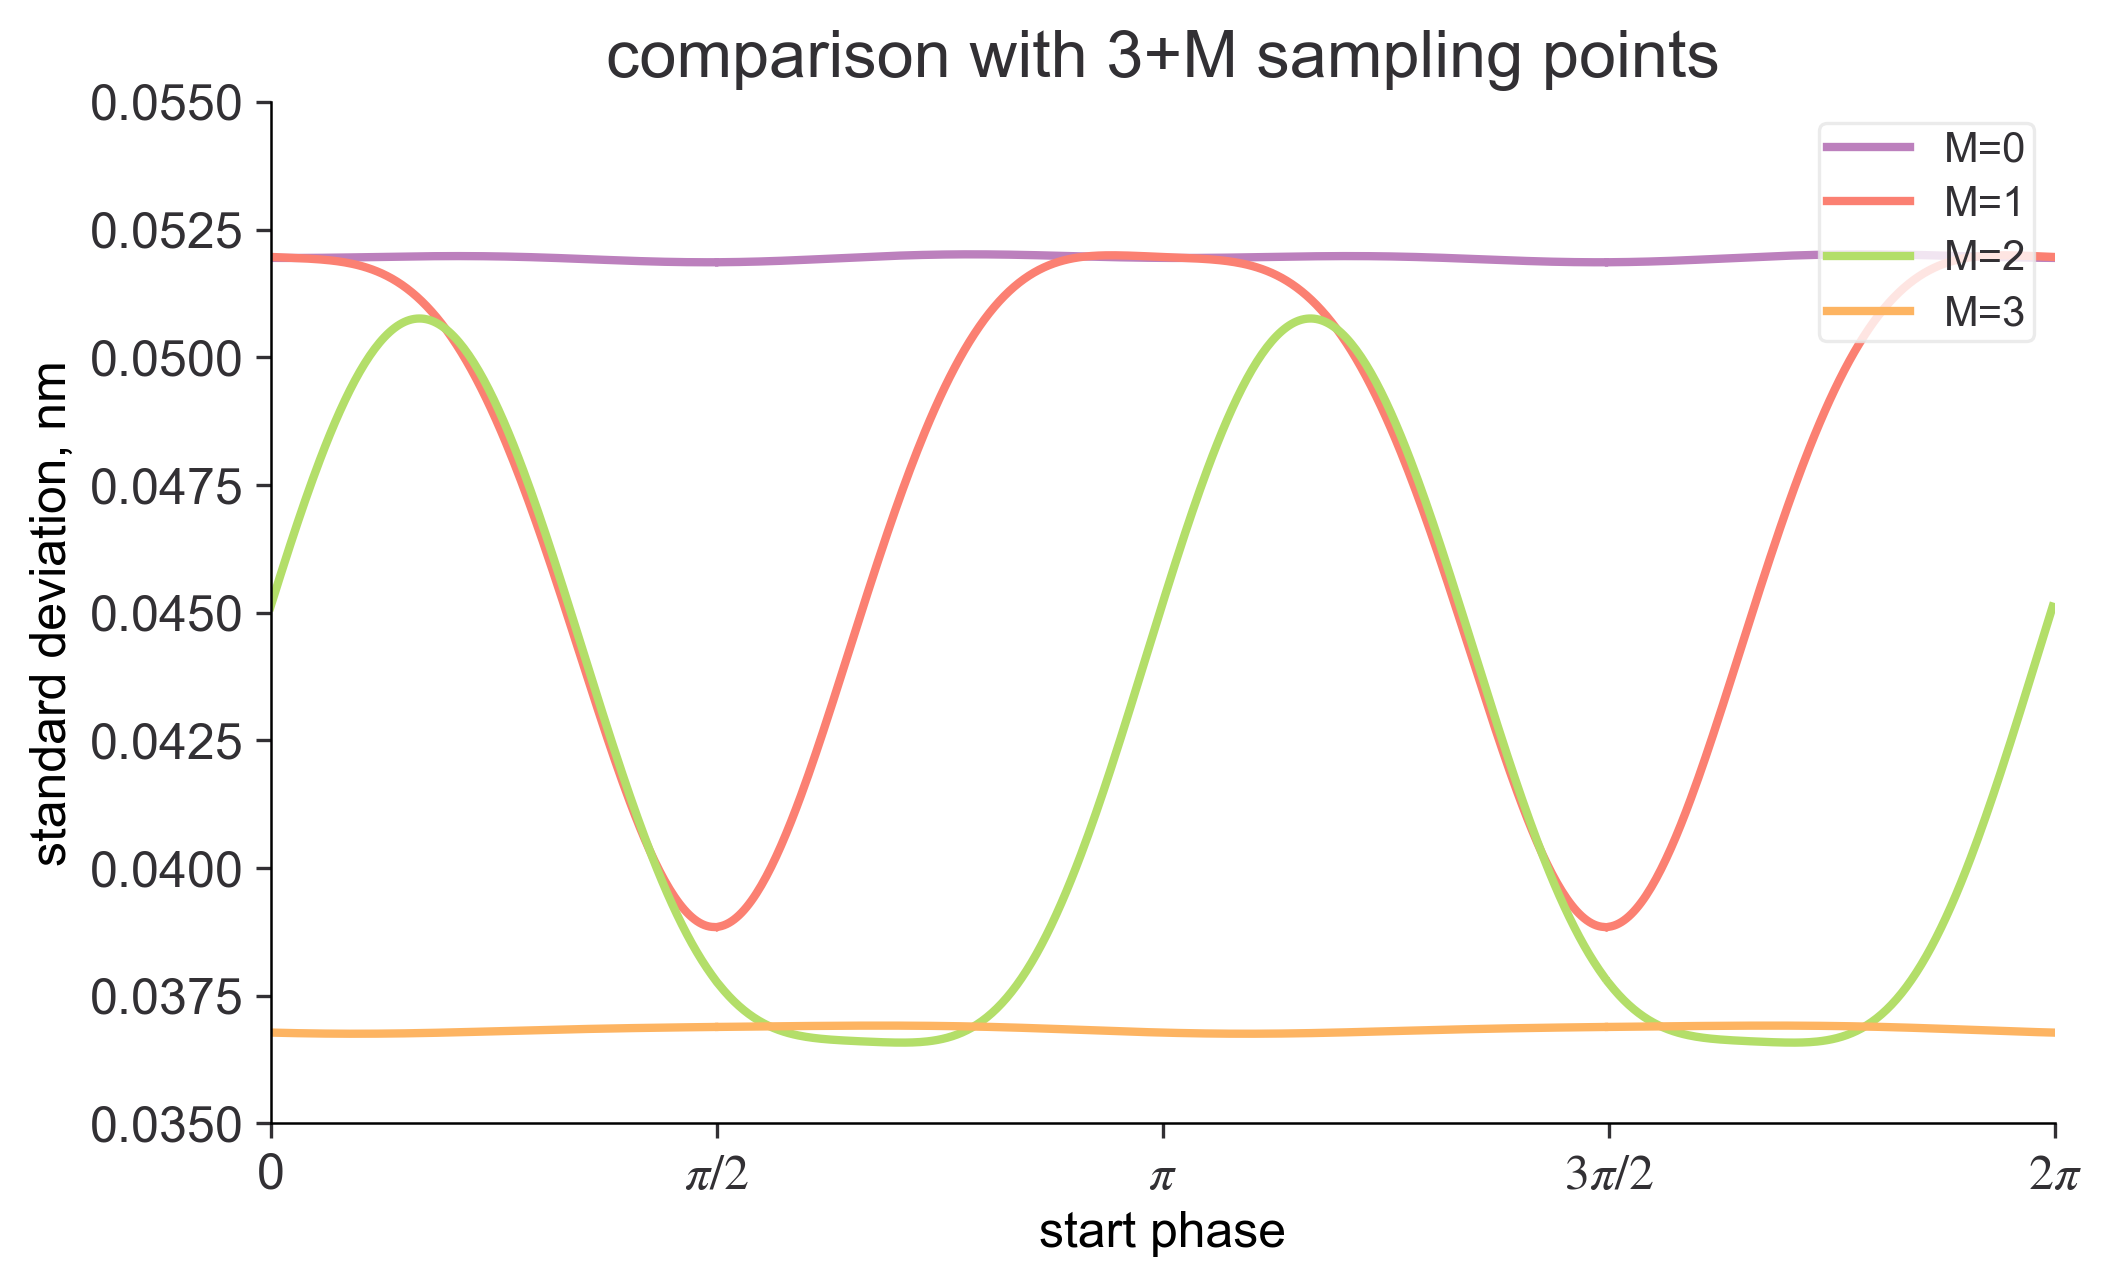
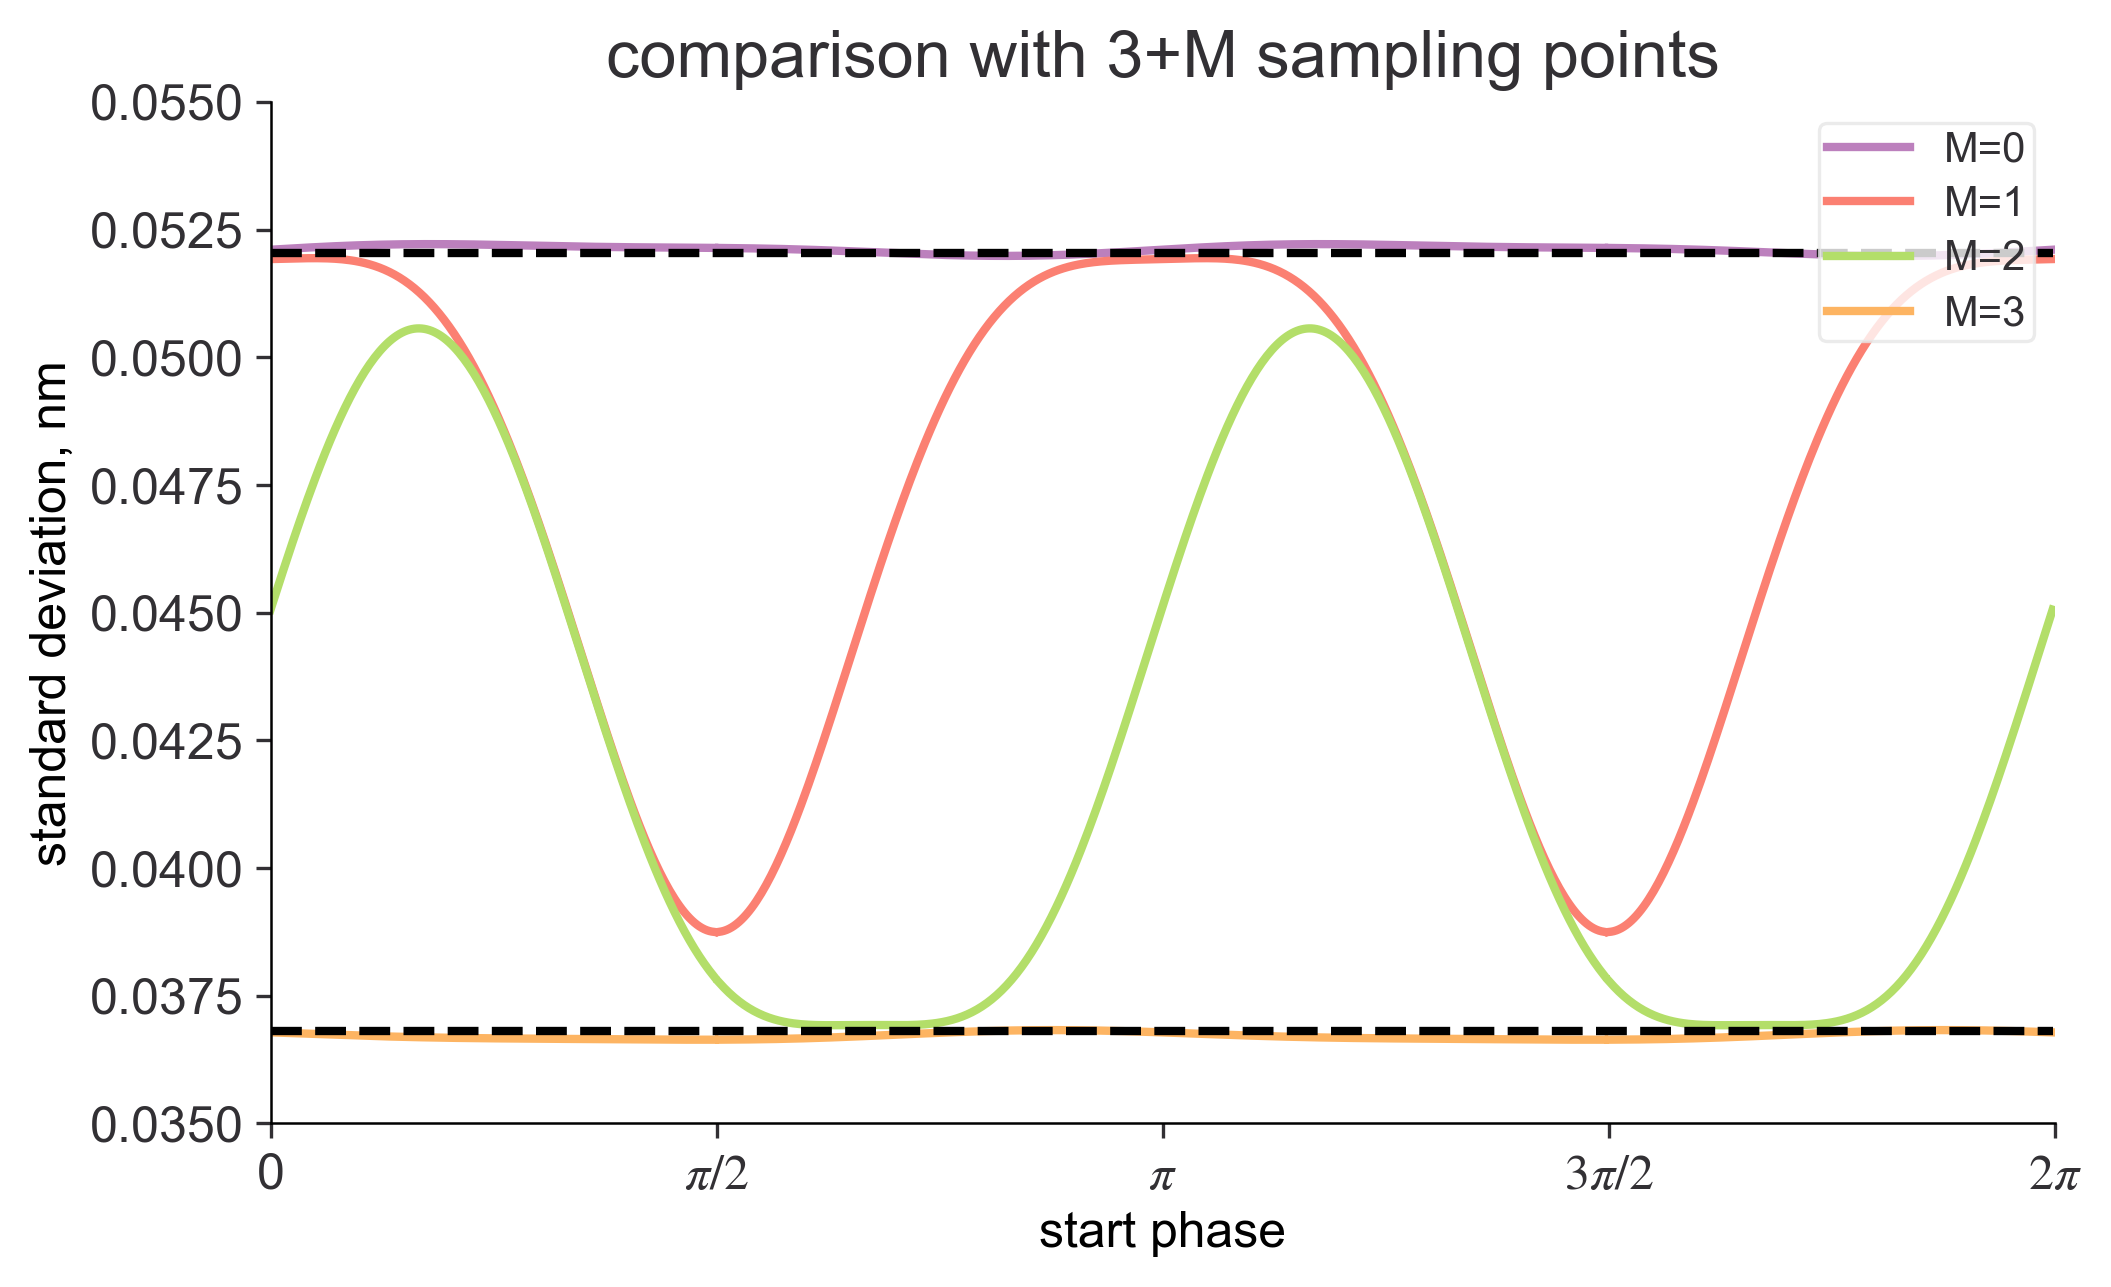
function of PSI

diff --git a/N+M-Step-Diagram.py b/N+M-Step-Diagram.py
@@ -14,9 +14,15 @@ M = np.arange(0, N + 1, 1)
 plt.style.use('scientific')
 plt.figure()
 for i in M:
-    _, std = N_M_step(step=N, over_sample_points=i)
+    _, std = N_M_step(step=N, over_sample_points=i, loop=100000)
     std_new = outlier_delete(std)
     plt.plot(std_new, label='M={}'.format(i))
+
+# get the theoretical value of N-sampling points
+get_value_N= n_Step_theoretical_std(N)
+get_value_2N= n_Step_theoretical_std(2 * N)
+plt.plot(get_value_N,'k--')
+plt.plot(get_value_2N,'k--')
 
 plt.xlabel('start phase')
 plt.ylabel('standard deviation, nm')
@@ -25,7 +31,7 @@ plt.xticks([0, 720 / 4, 720 / 2, 720 / 4 * 3, 720], [r'0', r'$\pi/2$', r'$\pi$',
 plt.legend(loc='upper right')
 plt.title('comparison with {}+M sampling points'.format(N))
 plt.tight_layout()
-# plt.savefig('Images/comparison with {}+M sampling points'.format(N), bbox_inches='tight')
+plt.savefig('Images/comparison with {}+M sampling points'.format(N), bbox_inches='tight')
 plt.show(block=1)
 
 # %% comparison between 2N sampling points and N+N sampling points
@@ -52,5 +58,5 @@ plt.xlim(5, 30)
 plt.legend(loc='upper right')
 plt.title('comparison between 2N and N+N sampling points')
 plt.tight_layout()
-plt.savefig('Images/comparison between 2N sampling points and N+N sampling points', bbox_inches='tight')
+# plt.savefig('Images/comparison between 2N sampling points and N+N sampling points', bbox_inches='tight')
 plt.show(block=1)
